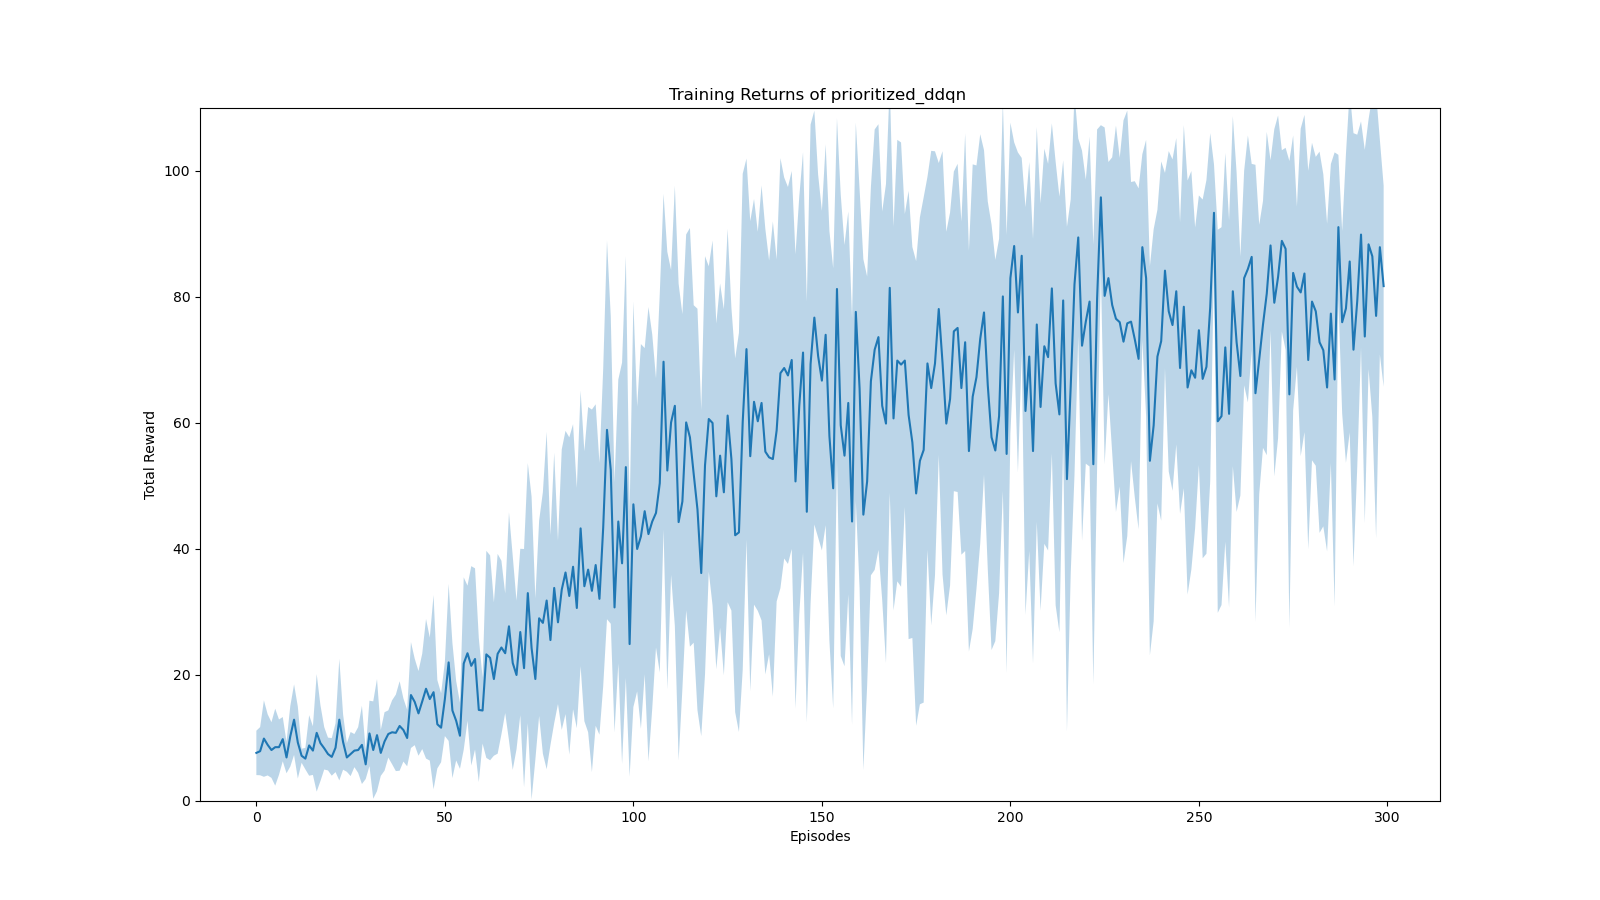
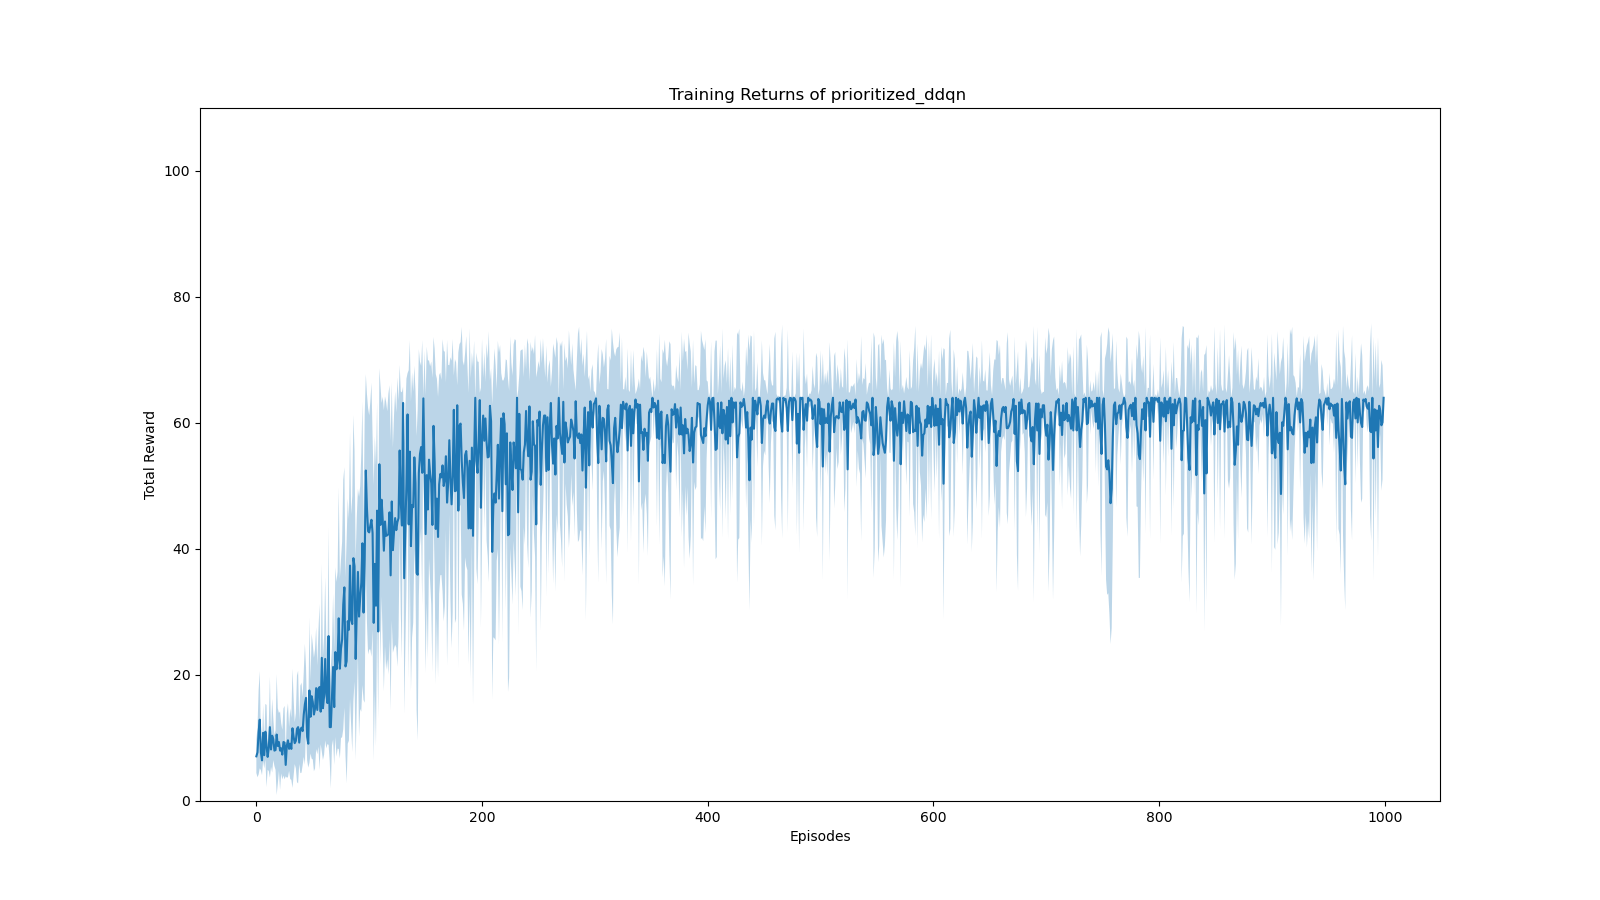
update

diff --git a/run_agent_cartpole.py b/run_agent_cartpole.py
@@ -22,7 +22,7 @@ from envs.cart_pole import CartPoleEnv
 import pickle
 
 def train_agent(agent, num_episodes=500):
-    max_steps = 100
+    max_steps = 64
     batch_size = 128
 
     returns = []
@@ -144,8 +144,8 @@ if __name__ == '__main__':
     action_dim = len(env.action_space)
     device = 'cuda:0' if torch.cuda.is_available() else 'cpu'
     print(f"Using device: {device}")
-    agents = ['dqn', 'ddqn', 'multistep_dqn', 'dueling_ddqn', 'prioritized_ddqn', 'distributional_dqn', 'noise_dqn', 'a3c', 'rainbow']
-    # agents = ['rainbow']
+    # agents = ['dqn', 'ddqn', 'multistep_dqn', 'dueling_ddqn', 'prioritized_ddqn', 'distributional_dqn', 'noise_dqn', 'a3c', 'rainbow']
+    agents = ['prioritized_ddqn']
     results = {}
     for agent_name in agents:
         print(agent_name)
@@ -167,15 +167,15 @@ if __name__ == '__main__':
             elif agent_name == "a3c":
                 agent = A3CAgent(state_dim=state_dim, action_dim=action_dim, device=device)
             elif agent_name == "rainbow":
-                agent = RainbowAgent(state_dim=state_dim, action_dim=action_dim, v_min=0., v_max=100., n_step=4, sigma=0.1, device=device)
+                agent = RainbowAgent(state_dim=state_dim, action_dim=action_dim, v_min=0., v_max=100., n_step=1, sigma=0.03, device=device)
             elif agent_name == "multistep_dqn":
-                agent = MultiStepDQNAgent(state_dim=state_dim, action_dim=action_dim, epsilon_decay=0.99, n_step=2, device=device)
+                agent = MultiStepDQNAgent(state_dim=state_dim, action_dim=action_dim, epsilon_decay=0.99, n_step=4, device=device)
             elif agent_name == "prioritized_ddqn":
                 agent = PrioritizedDoubleDQNAgent(state_dim=state_dim, action_dim=action_dim, epsilon_decay=0.99, device=device)
 
             # Execute based on parameters
             if args.train:
-                steps, returns = train_agent(agent, num_episodes=300)
+                steps, returns = train_agent(agent, num_episodes=1000)
                 seeds_returns[SEED] = (steps, returns)
 
             if args.test:

diff --git a/agents/my_prioritized_ddqn.py b/agents/my_prioritized_ddqn.py
@@ -90,7 +90,12 @@ class PrioritizedReplayBuffer:
         sampling_probabilities = np.array(priorities) / self.tree.total()
         is_weights = np.power(self.tree.n_entries * sampling_probabilities, -self.beta)
         is_weights /= is_weights.max()
-        return zip(*batch), idxs, is_weights
+        try:
+            batch = zip(*batch)
+        except:
+            with open('error.txt', 'w') as f:
+                f.write(str(batch))
+        return batch, idxs, is_weights
     
     def batch_update(self, tree_idx, abs_errors):#Update the importance sampling weight
         abs_errors += self.epsilon
